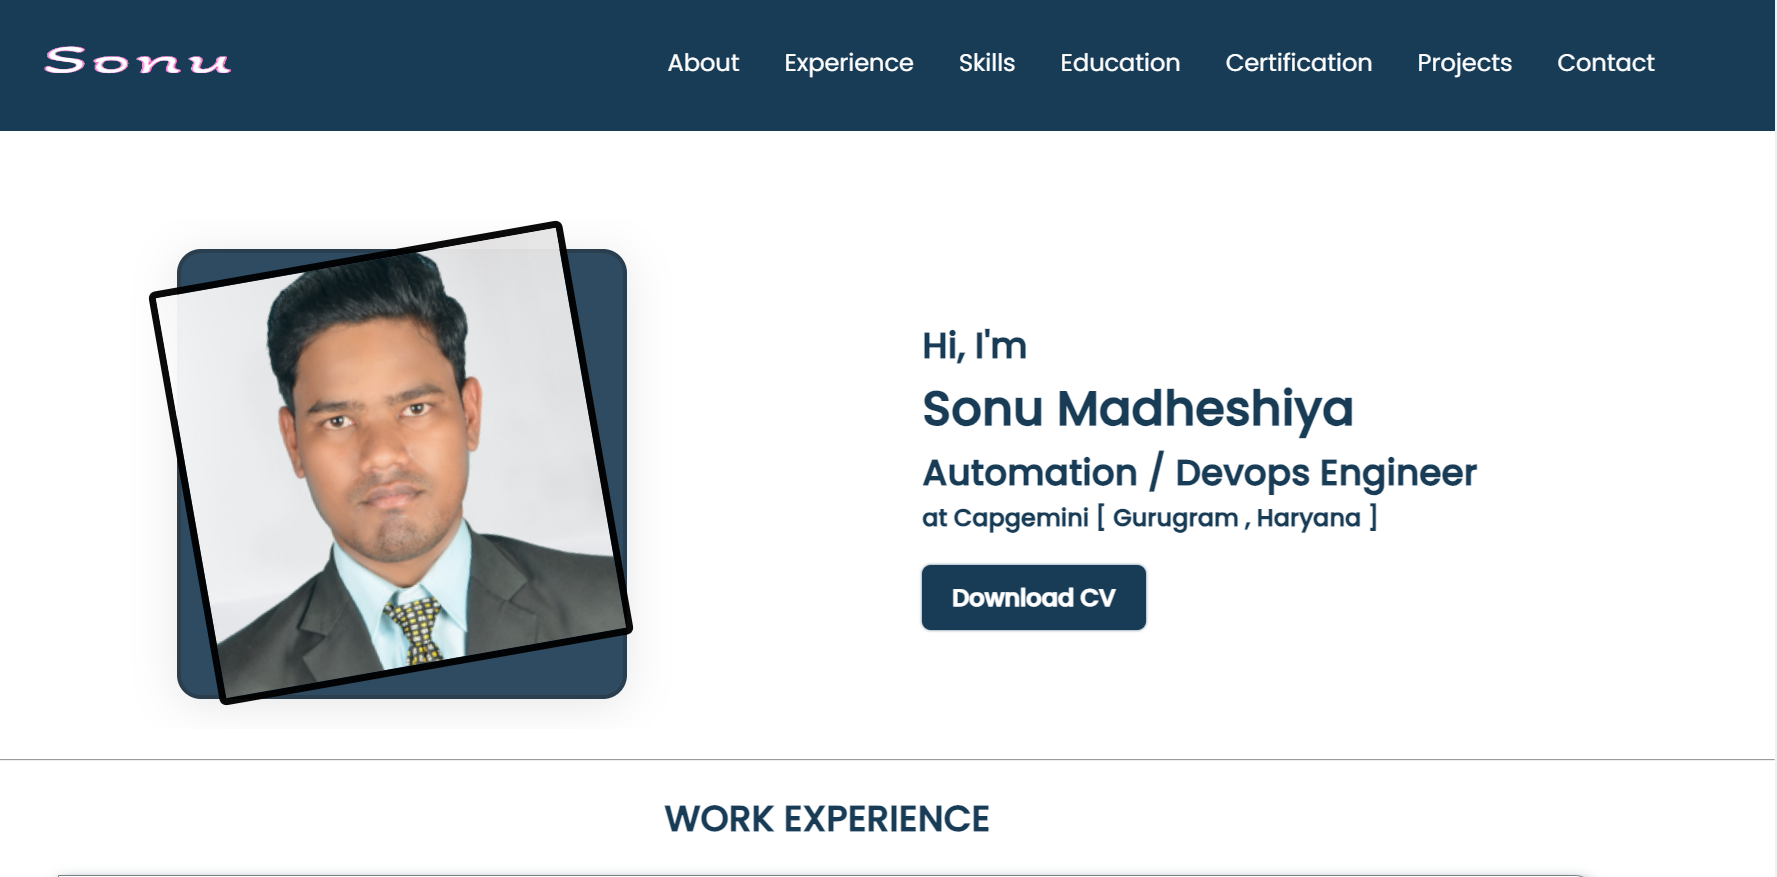
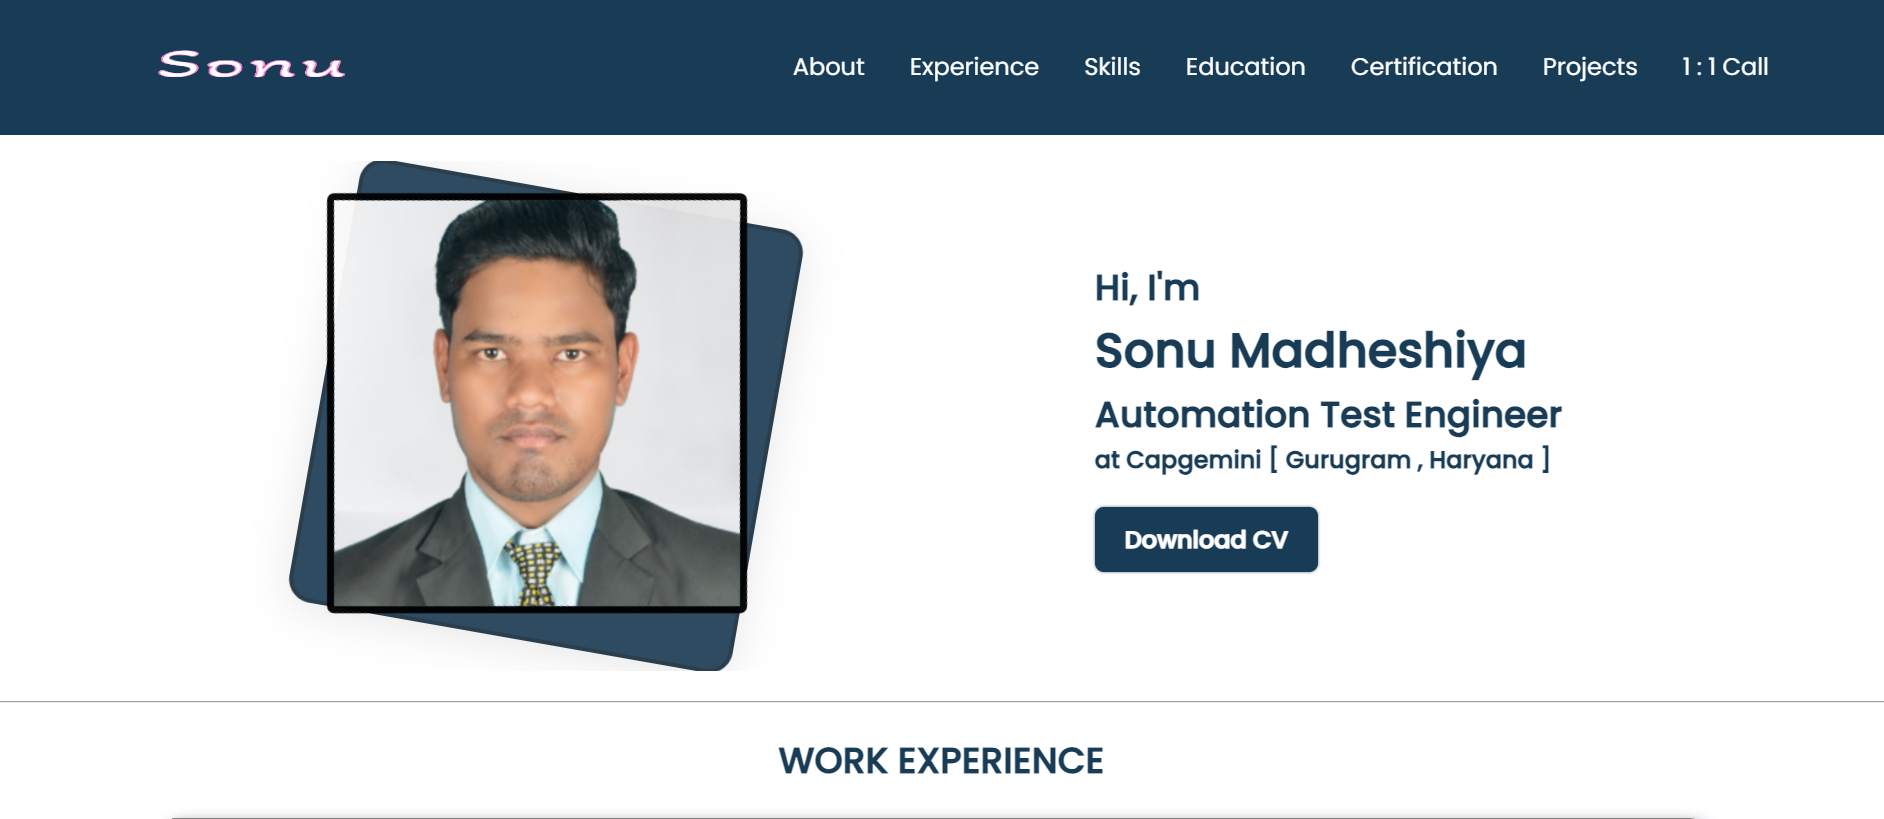
added minor changes

diff --git a/index.html b/index.html
@@ -44,7 +44,7 @@
             <div class="header-right">
                 <h3>Hi, I'm</h3>
                 <h2>Sonu Madheshiya</h2>
-                <h3>Automation / Devops Engineer</h3>
+                <h3>Automation Test Engineer</h3>
                 <h4>at Capgemini [ Gurugram , Haryana ]</h4>
                 <a href="#" target="_blank" class="primary-btn get-started-btn">Download CV</a>
             </div>
@@ -61,22 +61,7 @@
 
                 <ul style="list-style: disc;">
                     <li>
-                        <h4>Devops Engineer (10/2023 - Present)</h4>
-                    </li>
-                    <h5>Capgemini Engineering Limited, Gurugram Haryana</h5>
-                </ul>
-                <div class="work-details">
-                    <ul style="list-style: circle;">
-                        <li>Worked on implementing AWS using EC2, S3, RDS, ECS, Elastic Load Balancer, Auto Scaling
-                            groups</li>
-                        <li>Configured AWS IAM and Security Group in Public and Private Subnets in VPC.</li>
-                        <li>Identified bottlenecks and potential points of failure in the system's architecture.</li>
-                        <li>Developed automated scripts to deploy services and infrastructure components in AWS.</li>
-                    </ul>
-                </div>
-                <ul style="list-style: disc;">
-                    <li>
-                        <h4>Automation Test Engineer (12/2021 - 09/2023)</h4>
+                        <h4>Automation Test Engineer (12/2021 - Present)</h4>
                     </li>
                     <h5>Capgemini Engineering Limited, Gurugram Haryana</h5>
                 </ul>
@@ -97,21 +82,6 @@
                             industry
                             developments and guiding continuous improvement</li>
                     </ul>
-                </div>
-                <ul style="list-style: disc;">
-                    <li>
-                        <h4>Automation Test Engineer (11/2020 - 11/2021)</h4>
-                    </li>
-                    <h5>CEDCOSS Technology Private Limited, Lucknow Uttar Pradesh</h5>
-                </ul>
-                <div class="work-details">
-                    <ul style="list-style: circle;">
-                        <li> Designed, developed, and maintained automated test scripts using WebdriverIO for web application</li>
-                        <li> Collaborated with the development team to understand project requirements and ensure test coverage.</li>
-                        <li> Conducted end-to-end testing, cross-browser testing, and regression testing to validate software 
-                            functionality</li>
-                    </ul>
-                </div>
                 
                 <!-- <ul style="list-style: disc;">
                     <li>
@@ -218,6 +188,30 @@
             <div class="certificate-box">
                 <img src="./images/PostmanApi.jpg" alt="">
                 <h4>Postman Api Tool</h4>
+            </div>
+            <div class="certificate-box">
+                <img src="./images/QALead.jpg" alt="">
+                <h4>Be a QA Lead</h4>
+            </div>
+            <div class="certificate-box">
+                <img src="./images/Devops1.jpg" alt="">
+                <h4>DevOps Beginners to Advanced</h4>
+            </div>
+            <div class="certificate-box">
+                <img src="./images/Typescript.jpg" alt="">
+                <h4> TYPESCRIPT</h4>
+            </div>
+            <div class="certificate-box">
+                <img src="./images/WebDriverIO+NodeJS.jpg" alt="">
+                <h4>WebDriverIO + Node.js -JavaScript UI Automation from Scratch</h4>
+            </div>
+            <div class="certificate-box">
+                <img src="./images/WebdriverIO E2E Test Framework (Web+API +DB) - 2023.jpg" alt="">
+                <h4>WebdriverIO E2E Test Framework (Web+API +DB) - 2023</h4>
+            </div>
+            <div class="certificate-box">
+                <img src="./images/Terraform Associate.jpg" alt="">
+                <h4>HashiCorp Certified: Terraform Associate 2023</h4>
             </div>
             <div class="certificate-box">
                 <img src="./images/AWS.png" alt="">
@@ -338,9 +332,23 @@
     </section>
 
     <hr>
+    <section id="certification-section">
+        <h3 style="text-align: center;color: rgb(15, 85, 190);">MINDSET</h3>
+        
+    <p style="text-align: center;color: rgb(201, 139, 167);">
+        I think the most important skill is being able to learn new things quickly. 
+        In a world where things are always changing, being a quick learner is like having a secret weapon.
+    </p>
+
+    <p style="text-align: center;color: rgb(230, 12, 110);">
+        <em>"To learn quickly, you have to know how to learn." - Sonu Madheshiya 😎</em>
+    </p>
+    </section>
+    <hr>
+
     <section id="contact">
         <footer class='footer-container flex'>
-            <p>Sonu Madheshiya - Portfolio 2023</p>
+            <p>Sonu Madheshiya - Portfolio 2024</p>
             <div class='social-links'>
                 <a href='https://www.linkedin.com/in/%F0%9D%95%8A%F0%9D%95%A0%F0%9D%95%9F%F0%9D%95%A6-%F0%9D%95%84%F0%9D%95%92%F0%9D%95%95%F0%9D%95%99%F0%9D%95%96%F0%9D%95%A4%F0%9D%95%99%F0%9D%95%9A%F0%9D%95%AA%F0%9D%95%92-6962b5221/'
                     target='_blank'> <img src='./images/linkedin.png'></a>
